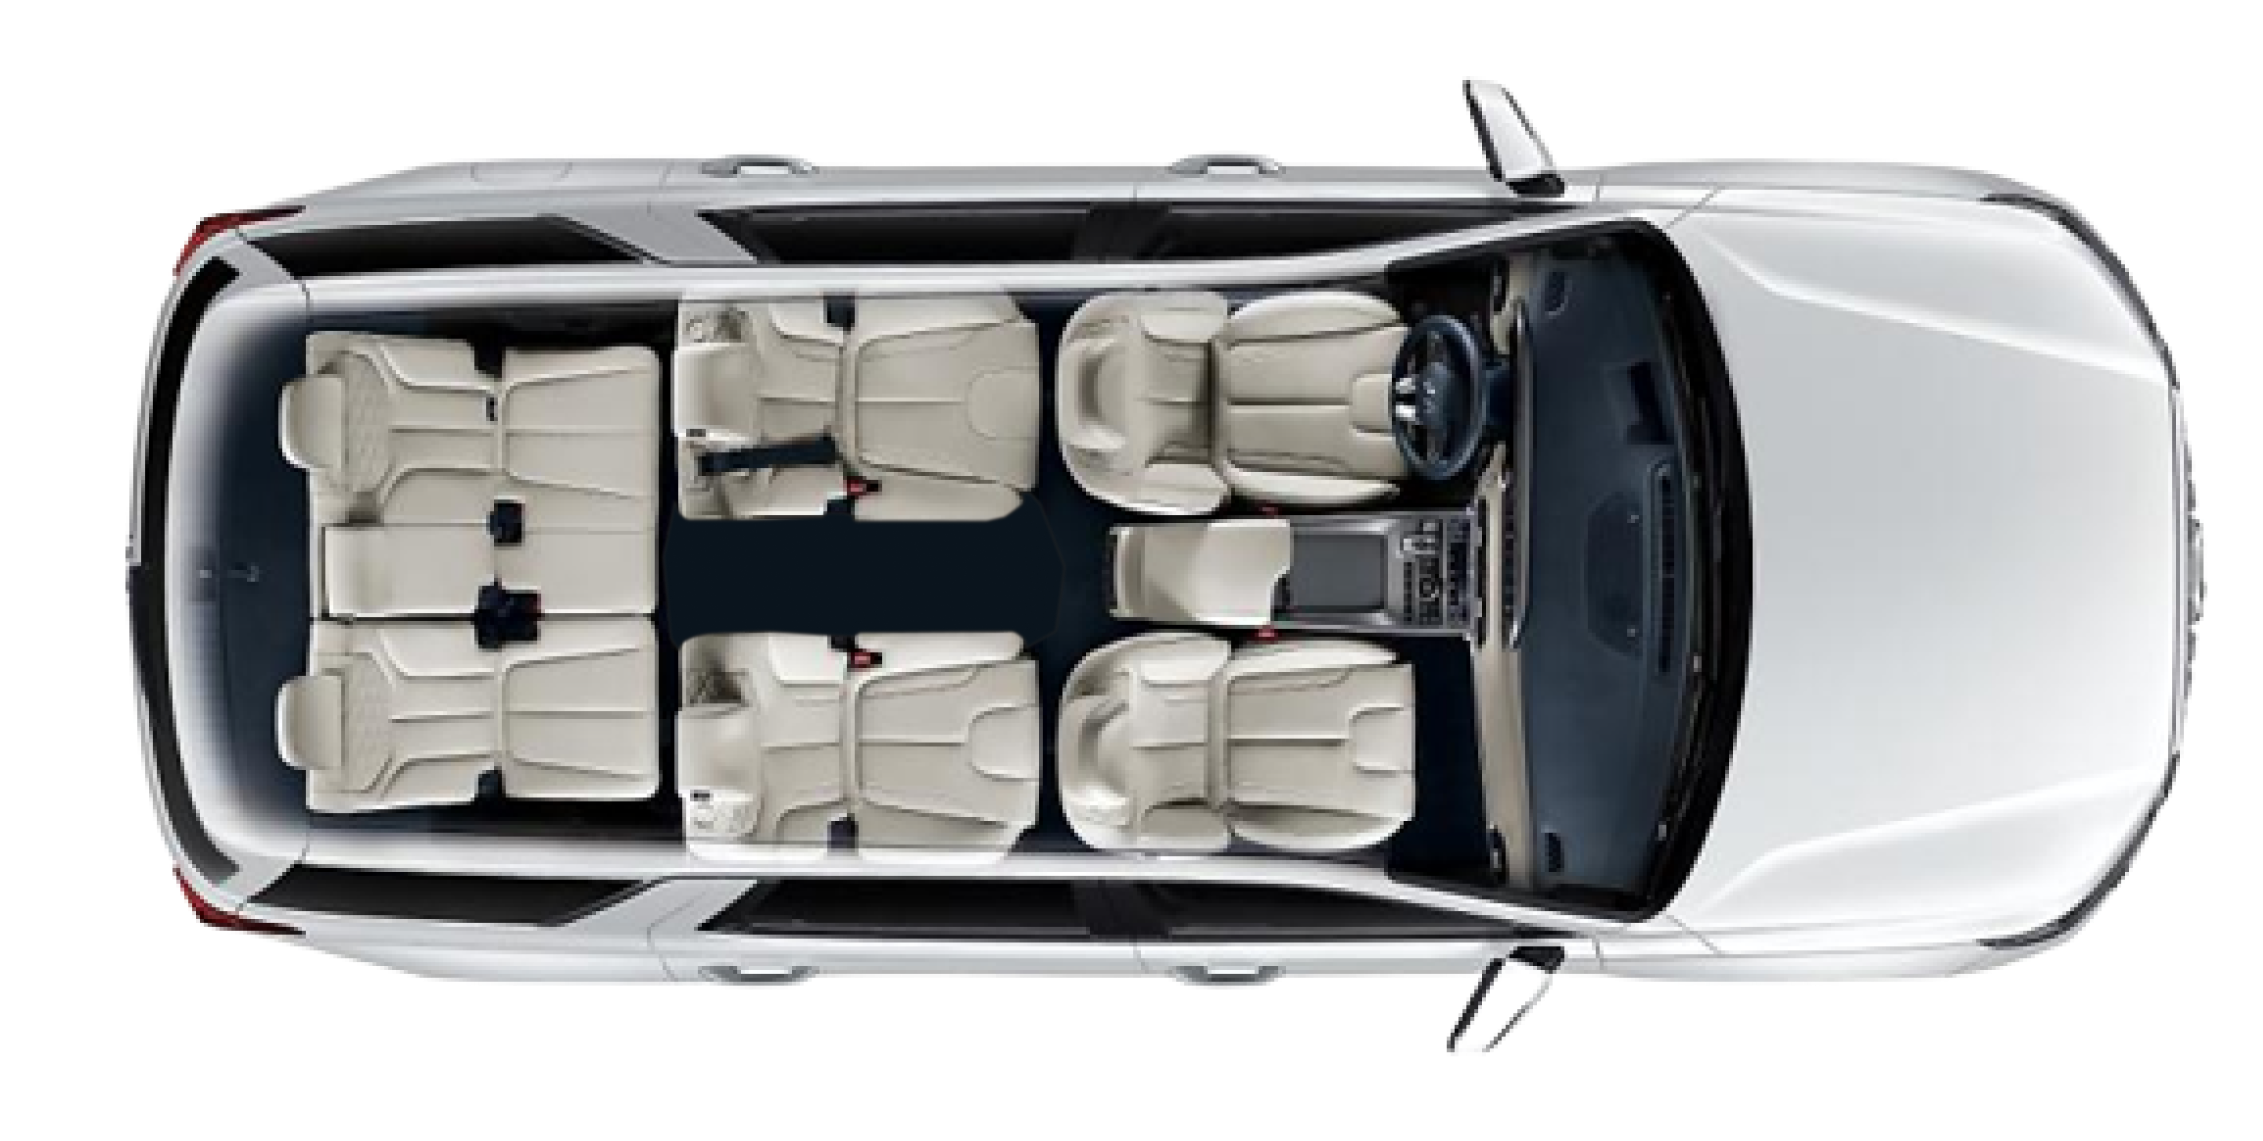
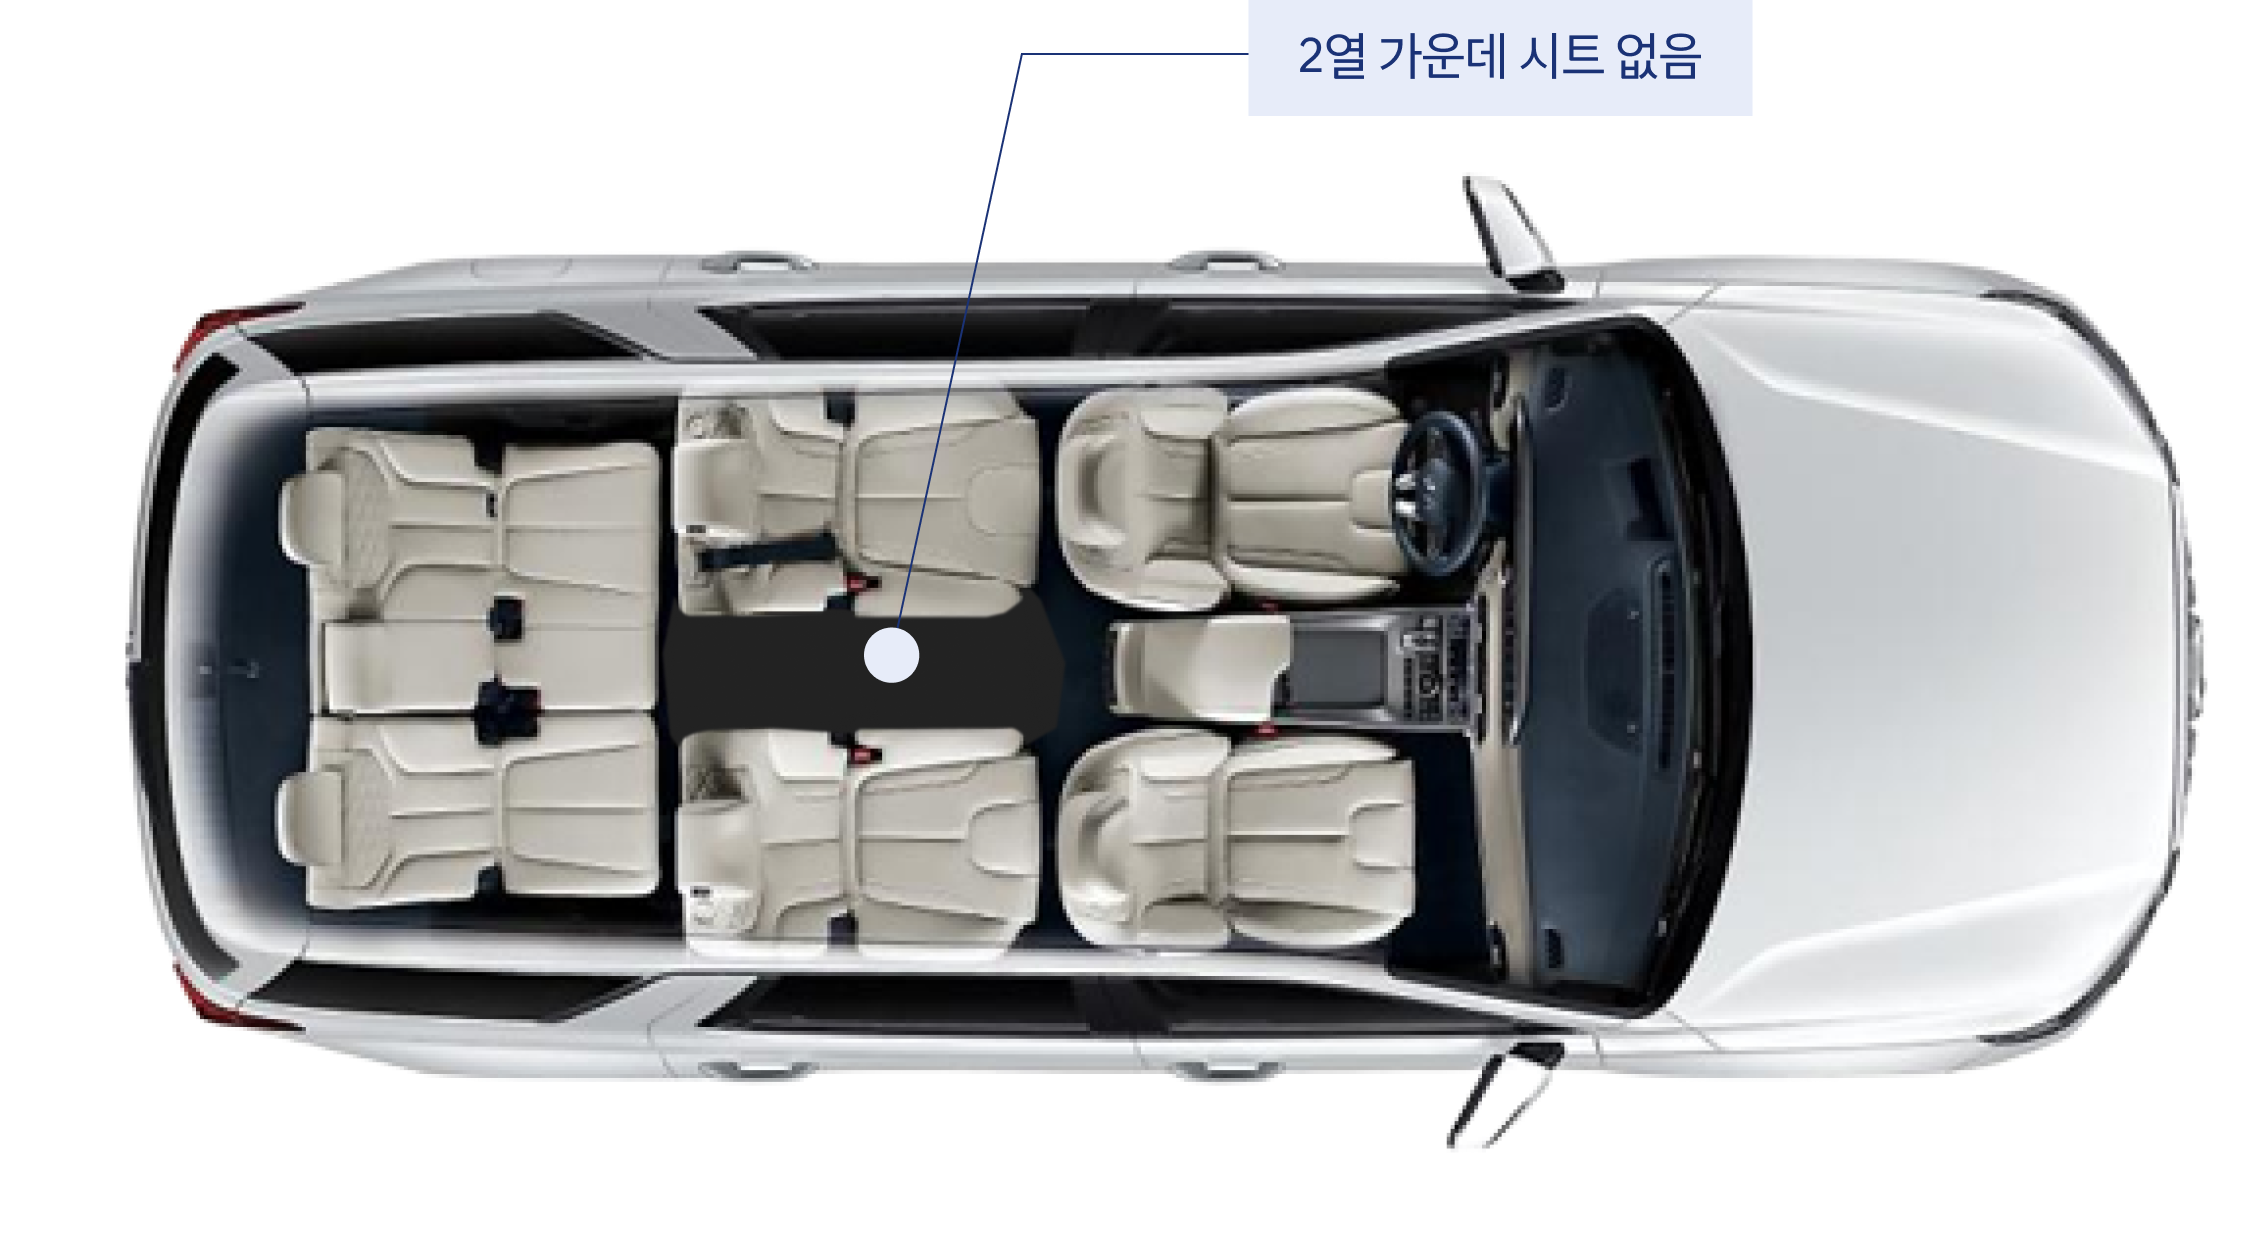
chore: 테스트 이미지 추가

diff --git a/FE-MyCarMaster/src/contexts/DetailContext.tsx b/FE-MyCarMaster/src/contexts/DetailContext.tsx
@@ -1,4 +1,10 @@
 import { useReducer, createContext, useContext } from "react";
+import Diesel from "../assets/images/Diesel.png";
+import Gasoline from "../assets/images/Gasoline.png";
+import TWO_WD from "../assets/images/2WD.png";
+import FOUR_WD from "../assets/images/4WD.png";
+import BodyType_7 from "../assets/images/BodyType_7.png";
+import BodyType_8 from "../assets/images/BodyType_8.png";
 
 type engines = {
   id: number;
@@ -64,7 +70,7 @@ const initialDetailState: DetailState = {
         "우수한 가속 성능으로 안정적이고 엔진의 진동이 적어 조용한 드라이빙이 가능합니다.",
       price: 0,
       ratio: 0,
-      imgUrl: "",
+      imgUrl: Gasoline,
       power: 295,
       torque: 36.2,
       fuelMin: 8.0,
@@ -77,7 +83,7 @@ const initialDetailState: DetailState = {
         "높은 토크로 파워풀한 드라이빙이 가능하고 연비 효율이 우수합니다.",
       price: 1480000,
       ratio: 22,
-      imgUrl: "",
+      imgUrl: Diesel,
       power: 202,
       torque: 45.0,
       fuelMin: 11.4,
@@ -92,7 +98,7 @@ const initialDetailState: DetailState = {
         "엔진 동력이 전륜 후륜 중 하나로 전달되어 움직입니다. 차체가 가벼워 연료 효율이 높습니다.",
       price: 0,
       ratio: 0,
-      imgUrl: "",
+      imgUrl: TWO_WD,
     },
     {
       id: 1,
@@ -101,7 +107,7 @@ const initialDetailState: DetailState = {
         "상시 4륜 구동 시스템으로 주행 환경에 맞춰 전후륜 구동력을 자동배분해 안전성을 높입니다",
       price: 2370000,
       ratio: 0,
-      imgUrl: "",
+      imgUrl: FOUR_WD,
     },
   ],
   bodyTypeList: [
@@ -112,7 +118,7 @@ const initialDetailState: DetailState = {
         "2열 가운데 시트를 없애 2열 탑승객의 편의는 물론, 3열 탑승객의 승하차가 편리합니다",
       price: 0,
       ratio: 0,
-      imgUrl: "",
+      imgUrl: BodyType_7,
     },
     {
       id: 1,
@@ -121,7 +127,7 @@ const initialDetailState: DetailState = {
         "1열 2명, 2열 3명, 3열 3명이 탑승할 수 있는 구조로, 많은 인원이 탑승할 수 있습니다",
       price: 0,
       ratio: 0,
-      imgUrl: "",
+      imgUrl: BodyType_8,
     },
   ],
 };
